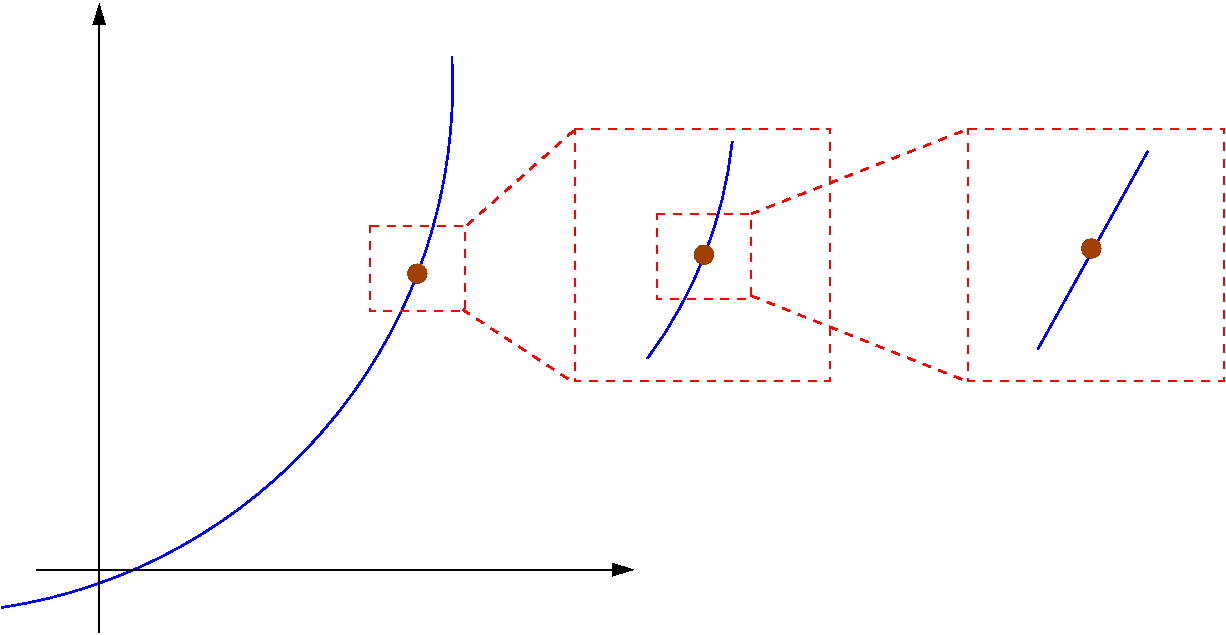
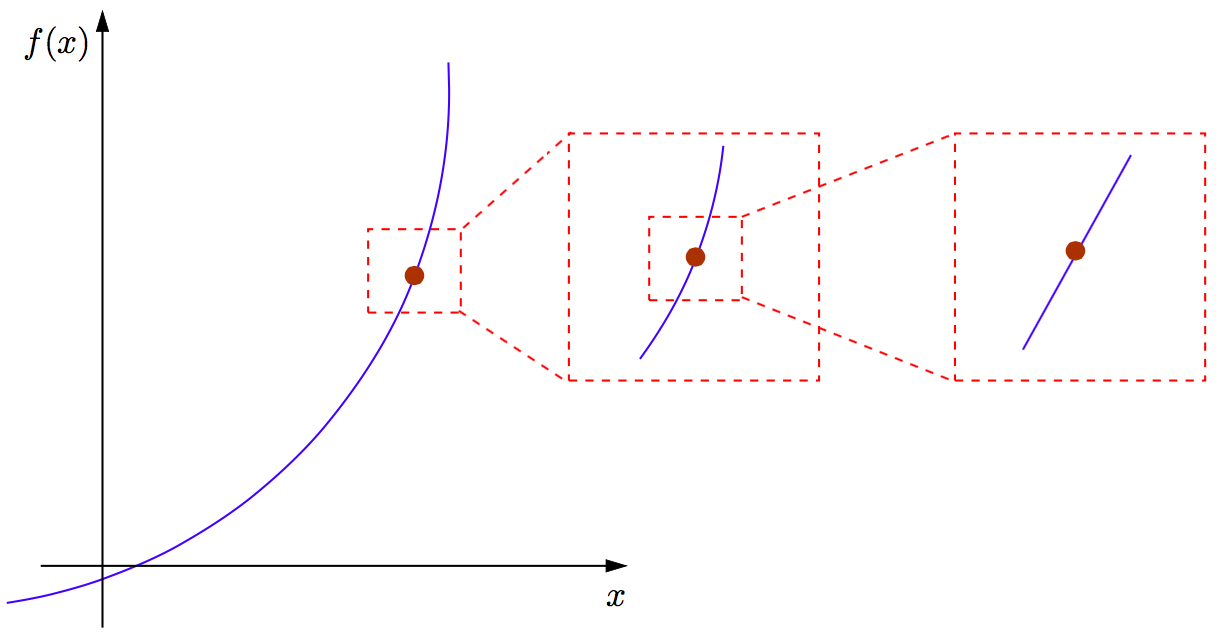
expand Section 5.1; add Section 5.2 on fixed point iteration

diff --git a/docs_src/nonlinear.rst b/docs_src/nonlinear.rst
@@ -69,10 +69,205 @@ This example is a special case of an algorithm for solving nonlinear equations
 known as Newton's method (also called the *Newton-Raphson* method). The
 general idea is as follows: if we "zoom" close enough to any smooth function,
 its graph looks more and more like a straight line (specifically, the
-*tangent* line to the curve).
+*tangent* line to the curve). Newton's method suggests: if after :math:`k` iterations we have approximated the
+solution of :math:`f(x)=0` (a general nonlinear equation) as :math:`x_k`, then:
 
     .. image:: images/newton.png
-        :height: 420px
-        :width: 812px
+        :height: 426px
+        :width: 816px
         :scale: 75%
         :align: center
+
+* Form the tangent line at :math:`(x_k,f(x_k))`.
+* Select :math:`x_{k+1}` as the intersection of the tangent line with the horizontal axis (:math:`y=0`).
+
+If :math:`(x_n,y_n)=(x_n,f(x_n))`, the tangent line to the plot of :math:`f(x)` at :math:`(x_n,y_n)` is:
+
+.. math::
+    
+    y-y_n=\lambda(x-x_n), \enspace\enspace \mbox{where $\lambda=f'(x_n)$ is the slope}
+
+Thus, the tangent line has equation :math:`y-y_n=f'(x_n)(x-x_n)`.
+
+    .. image:: images/newton-iteration.png
+        :height: 728px
+        :width: 901px
+        :scale: 75%
+        :align: center
+
+Setting :math:`y=0` gives
+
+.. math::
+
+    -f(x_n)=f'(x_n)(x-x_n)\Rightarrow x=x_n-\frac{f(x_n)}{f'(x_n)}=x_{n+1}
+
+Ultimately, Newton's method reduces to: 
+
+.. math::
+    x_{n+1}=x_n-\frac{f(x_n)}{f'(x_n)}
+    :label: newton
+
+Our previous example (square root of :math:`a`) is just an application of Newton's
+method to the nonlinear equation :math:`f(x)=x^2-a=0`. Applying equation
+:eq:`newton` gives:
+
+.. math::
+
+    x_{k+1}=x_k-\frac{f(x_k)}{f'(x_k)}=x_k-\frac{x_k^2-a}{2x_k}=\frac{2x_k^2-x_k^2+a}{2x_k}=\frac{x_k^2+a}{2x_k}
+
+which is the same iteration we considered previously.
+A few comments about Newton's method:
+
+*   It requires the function :math:`f(x)` to be not only continuous, but differentiable as
+    well. We will later see variants that do not *explicitly* require knowledge
+    of :math:`f'`. This would be an important consideration if the formula for :math:`f'(x)` is
+    significantly more complex and expensive to evaluate than :math:`f(x)`, or if we
+    simply do not possess an analytic expression for :math:`f'` (this could be the case if
+    :math:`f(x)` is not given to us via an explicit formula, but only defined via a
+    black-box computer function that computes the value).
+
+*   If we ever have an approximation :math:`x_k` with :math:`f'(x_k)\approx 0`, we should expect
+    problems, especially if we are not close to a solution (we would be nearly
+    dividing by zero). In such cases, the tangent line is almost (or exactly)
+    horizontal. Thus, the next iterate can be a very remote value and convergence
+    may be far from guaranteed.
+
+    .. image:: images/newton-convergence.png
+        :height: 766px
+        :width: 1218px
+        :scale: 50%
+        :align: center
+
+Fixed Point Iteration
+~~~~~~~~~~~~~~~~~~~~~
+
+Newton's method is in itself a special case of a broader category of methods for
+solving nonlinear equations called *fixed point iteration* methods.
+Generally, if :math:`f(x)=0` is the nonlinear equation we seek to solve, a fixed point
+iteration method proceeds as follows:
+
+*   Start with :math:`x_0 = \enspace <\textsf{initial guess}>`.
+*   Iterate the sequence
+
+    .. math::
+        x_{k+1} = g(x_k)
+
+    where :math:`g(x)` is a properly designed function for this purpose. Note that :math:`g(x)`
+    is related, but otherwise different than :math:`f(x)`.
+
+Following this method, we construct the sequence :math:`x_0, x_1,
+x_2,\ldots,x_k,\ldots` hoping that it will converge to a solution of :math:`f(x)=0`.
+The following questions arise at this point:
+
+1.  If this sequence converges, does it converge to *a solution of* :math:`f(x)=0`?
+
+2.  Is this iteration guaranteed to converge?
+
+3.  How fast does this iteration converge?
+
+4.  (Of practical concern) When do we stop iterating and declare that we have
+    obtained an acceptable approximation?
+
+We start by addressing the first question: if the sequence :math:`\{x_k\}` does
+converge, can we ensure that it will converge to a solution of :math:`f(x)=0`?
+Taking limits on :math:`x_{k+1}=g(x_k)`, and assuming that
+
+1.  :math:`\lim_{k\rightarrow\infty} x_k=a`, and
+2.  the function :math:`g` is continuous,
+
+gives
+
+.. math::
+
+    \lim_{k\rightarrow\infty} x_{k+1}=\lim_{k\rightarrow\infty}g(x_k)\Rightarrow a=g(a)
+
+The simplest way to guarantee that :math:`a` is a solution to :math:`f(x)=0` (in other
+words, :math:`f(a)=0`) is if we construct :math:`g(x)` such that
+
+.. math::
+    x=g(x) \enspace\enspace \mbox{is mathematically equivalent to} \enspace\enspace f(x)=0
+
+There are many ways to make this happen, for example,
+
+.. math::
+    f(x)=0\Leftrightarrow x+f(x)=x \Leftrightarrow x=g(x), \enspace\enspace \mbox{where} \enspace\enspace g(x)\equiv x+f(x)
+
+or
+
+.. math::
+
+    f(x)=0\Leftrightarrow e^{-x}f(x)=0\Leftrightarrow e^{-x}f(x)+x^2=x^2\Leftrightarrow\frac{e^{-x}f(x)+x^2}{x}=x\Leftrightarrow g(x)=x\enspace\enspace \mbox{where} \enspace\enspace g(x)\equiv\frac{e^{-x}f(x)+x^2}{x}
+
+or
+
+.. math::
+    f(x)=0\Leftrightarrow -\frac{f(x)}{f'(x)}=0\Leftrightarrow x-\frac{f(x)}{f'(x)}=x\Leftrightarrow g(x)=x, \enspace\enspace \mbox{where} \enspace\enspace g(x)\equiv x-\frac{f(x)}{f'(x)}
+
+The last example is exactly Newton's method; substituting the definition of
+:math:`g(x)` above into the iteration :math:`x_{k+1}=g(x_k)` yields the familiar Newton
+update equation. Thus, we know that if fixed point iteration converges, it will be to
+a solution of :math:`f(x)=0`. From above, it should be apparent that the choice
+of :math:`g(x)` is certainly not unique. Unfortunately, not all
+these choices lead to an effective method. For example, consider the nonlinear
+equation :math:`f(x)=x^2-a=0` (solution: :math:`\pm\sqrt{a}`) and the function :math:`g(x)=a/x`.
+We can easily verify that
+
+.. math::
+    x=g(x)=\frac{a}{x}\Leftrightarrow x^2=a\Leftrightarrow x^2-a=0=f(x)
+
+However, the iteration :math:`x_{k+1}=g(x_k)=a/x_k` yields,
+
+.. math::
+    x_1=\frac{a}{x_0},\enspace\enspace x_2=\frac{a}{x_1}=\frac{a}{a/x_0}=x_0
+
+Thus, the sequence alternates forever between the values :math:`x_0,x_1,x_0,x_1,\ldots`
+regardless of the initial value. Other choices of :math:`g(x)` may also create
+divergent sequences, often regardless of the value of the initial guess.
+Fortunately, there are ways to ensure that the sequence :math:`\{x_k\}` converges, by
+making an appropriate choice of :math:`g(x)`. We will use the following definition:
+
+.. topic:: Definition
+
+    A function :math:`g(x)` is called a *contraction in
+    the interval* :math:`[a,b]`, if there exists a number :math:`L\in[0,1)` such that
+
+    .. math::
+        |g(x)-g(y)|\leq L|x-y|
+
+    for any :math:`x,y\in[a,b]`.
+
+Examples:
+
+*   :math:`g(x)=x/2`:
+
+    .. math::
+        |g(x)-g(y)|=\frac{1}{2}|x-y|
+
+    for any :math:`x,y\in\mathbb R`.
+
+*   :math:`g(x)=x^2`, in :math:`[0.1,0.2]`:
+
+    .. math::
+        |g(x)-g(y)|=|x^2-y^2|=|x+y||x-y|\leq 0.3|x-y|
+
+    for :math:`x,y\in[0.1,0.2]` (in this case this condition is essential!)
+
+If we can establish that the function :math:`g` in the fixed point iteration
+:math:`x_{k+1}=g(x_k)` is a contraction, we can show the following:
+
+.. topic:: Theorem
+
+    Let :math:`a` be the actual solution to :math:`f(x)=0`, and assume :math:`|x_0-a|<\delta`,
+    where :math:`\delta` is an arbitrary positive number. If :math:`g` is a contraction on
+    :math:`(a-\delta,a+\delta)`, the fixed point iteration is guaranteed to converge to :math:`a`.
+
+    *Proof:* Since :math:`a` is the solution, we have :math:`a=g(a)`. Thus,
+
+    .. math::
+        |x_1-a| &=& \enspace |g(x_0)-g(a)|\leq L|x_0-a|<L\delta \\
+        |x_2-a| &=& \enspace |g(x_1)-g(a)|\leq L|x_1-a|<L^2\delta \\
+        &\vdots& \\
+        |x_k-a| &<& \enspace L^k\delta
+
+    Since :math:`L<1`, we have :math:`\lim_{k\rightarrow\infty} |x_k-a|=0`, i.e.,
+    :math:`x_k\rightarrow a`.
